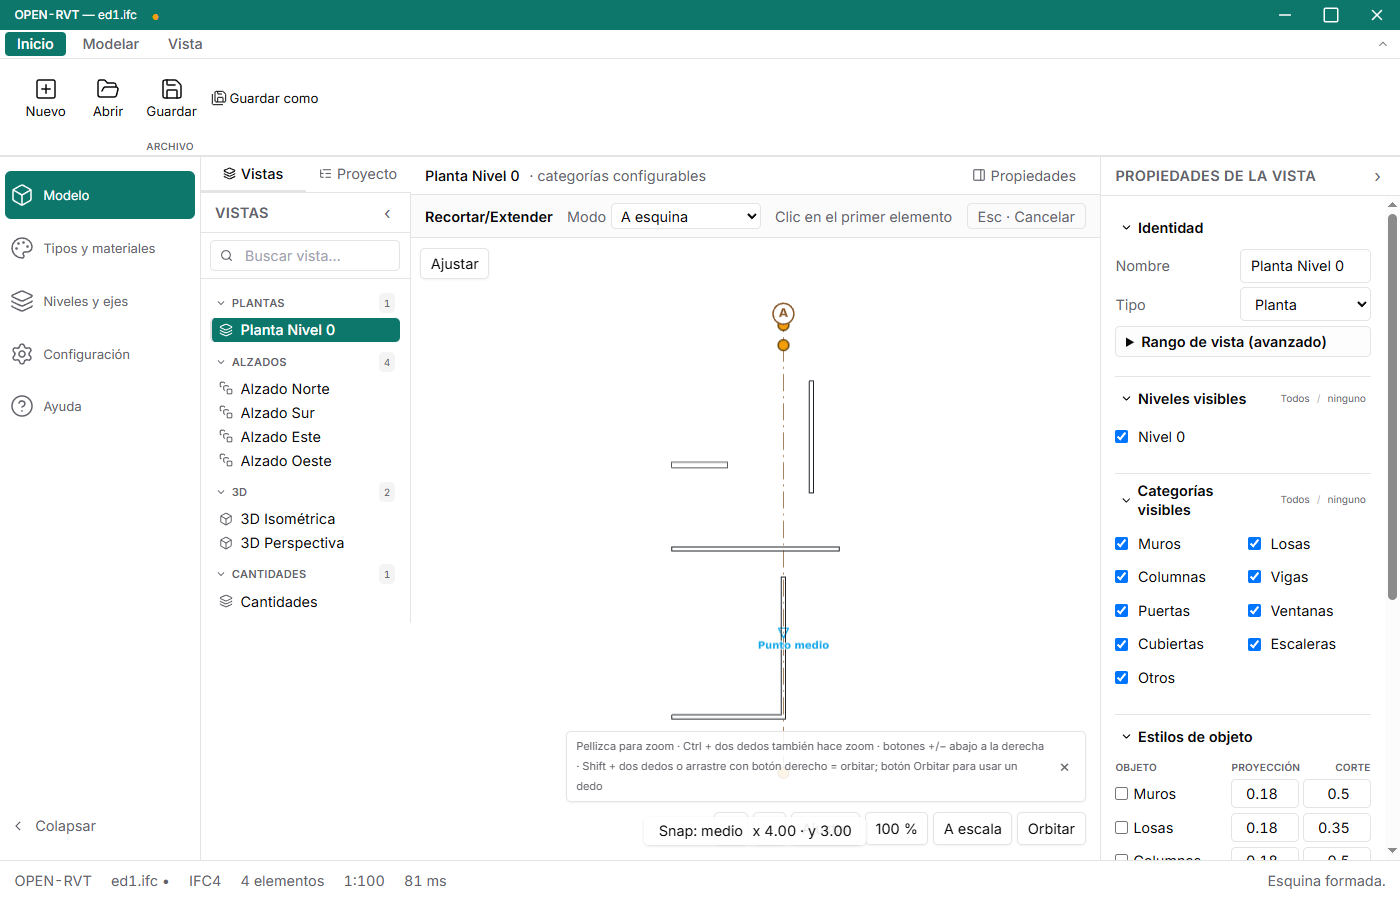
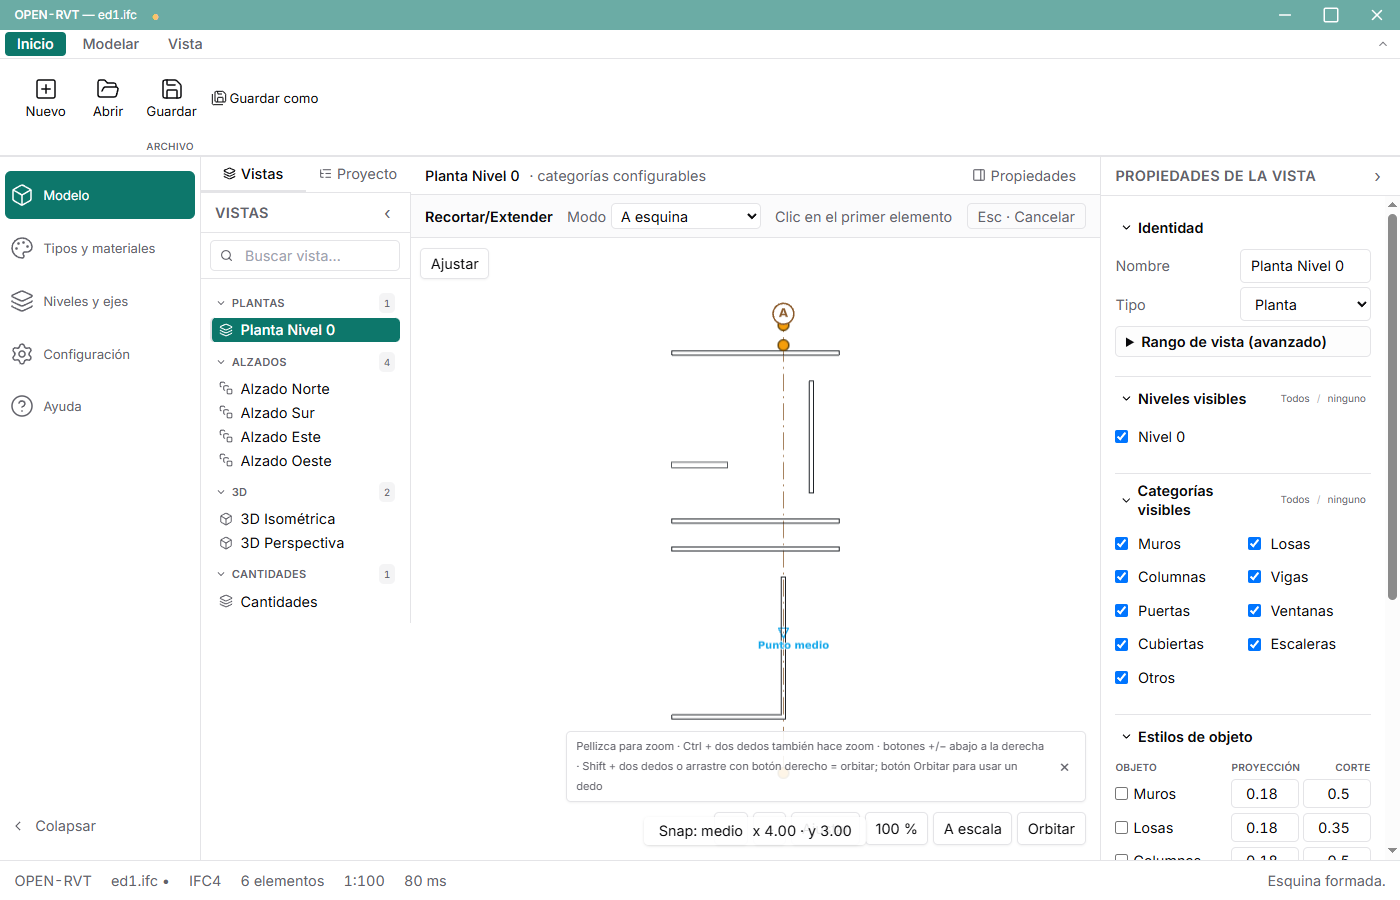
ED1: E2E del modo Varios elementos y capturas finales

Changed region(s): [[0.0, 0.0, 1.0, 0.0311], [0.4914, 0.56, 0.5836, 0.5911], [0.4914, 0.3733, 0.5836, 0.4044]]

diff --git a/e2e/ed1.test.js b/e2e/ed1.test.js
@@ -299,6 +299,8 @@ test("ED1: recortar y extender con clics reales", async () => {
     const m2 = await crearMuro(4, 1, 4, 5);
     const m3 = await crearMuro(0, 6, 6, 6);
     const m4 = await crearMuro(5, 8, 5, 12);
+    const m5 = await crearMuro(0, 7, 6, 7);
+    const m6 = await crearMuro(0, 13, 6, 13);
     const eje = (
       await invocar(ses, "ejes.crear", {
         etiqueta: "A",
@@ -385,6 +387,26 @@ test("ED1: recortar y extender con clics reales", async () => {
     await esperar(500);
     const c3 = await estructura(ses, contratrabe);
     assert.ok(cerca(c3.x2, 5), "Rehacer no volvió a extender la contratrabe a x=5");
+
+    // 5. Modo «Varios elementos»: una referencia y dos ajustes; Enter termina.
+    // Deshacer/Rehacer recarga el modelo y sale de la herramienta: se reactiva.
+    await escribir(ses, "tr");
+    await esperarHerramienta(ses, "recortar_extender");
+    await elegirModo(ses, "varios");
+    await clicMundo(ses, 4, 11);
+    await clicMundo(ses, 1, 7);
+    await clicMundo(ses, 1, 13);
+    const r5 = await muro(ses, m5);
+    const r6 = await muro(ses, m6);
+    assert.ok(cerca(r5.x1, 0) && cerca(r5.x2, 4) && cerca(r5.y2, 7));
+    assert.ok(cerca(r6.x1, 0) && cerca(r6.x2, 4) && cerca(r6.y2, 13));
+    await tecla(ses, "Enter", "Enter");
+    assert.equal(
+      await ses.driver.executeScript(
+        () => document.querySelector('[data-testid="recorte-paso"]').textContent.trim(),
+      ),
+      "Clic en la referencia (elemento o eje)",
+    );
 
     await tecla(ses, "Escape", "Escape");
     await tecla(ses, "Escape", "Escape");

diff --git a/docs/progreso/ED1.md b/docs/progreso/ED1.md
@@ -86,6 +86,8 @@ Con la app Tauri y WebDriver:
 4. Recorta M3 contra el eje x=4 conservando el clic en (1,6).
 5. Extiende la contratrabe hasta el muro en x=5.
 6. Deshacer (Ctrl+Z) y Rehacer (Ctrl+Y), comprobando los extremos tras cada paso.
+7. Modo «Varios elementos»: referencia en el eje x=4 y dos muros ajustados; Enter
+   termina la secuencia y la barra vuelve a pedir la referencia.
 
 Capturas: `docs/progreso/ED1/ed1-antes.png`, `ed1-previa.png`, `ed1-despues.png`.
 
@@ -93,7 +95,7 @@ Capturas: `docs/progreso/ED1/ed1-antes.png`, `ed1-previa.png`, `ed1-despues.png`
 $ OPENRVT_PYTHON=… OPENRVT_NUCLEO_DIR=…/nucleo \
   CARGO_TARGET_DIR=$HOME/.cache/pp-target/openrvt-ed1 \
   npx node --test e2e/ed1.test.js
-✔ ED1: recortar y extender con clics reales (10.0 s)
+✔ ED1: recortar y extender con clics reales (13.6 s)
 ```
 
 Antes de construir el binario se ejecutó `herramientas/preparar_python.sh windows`
